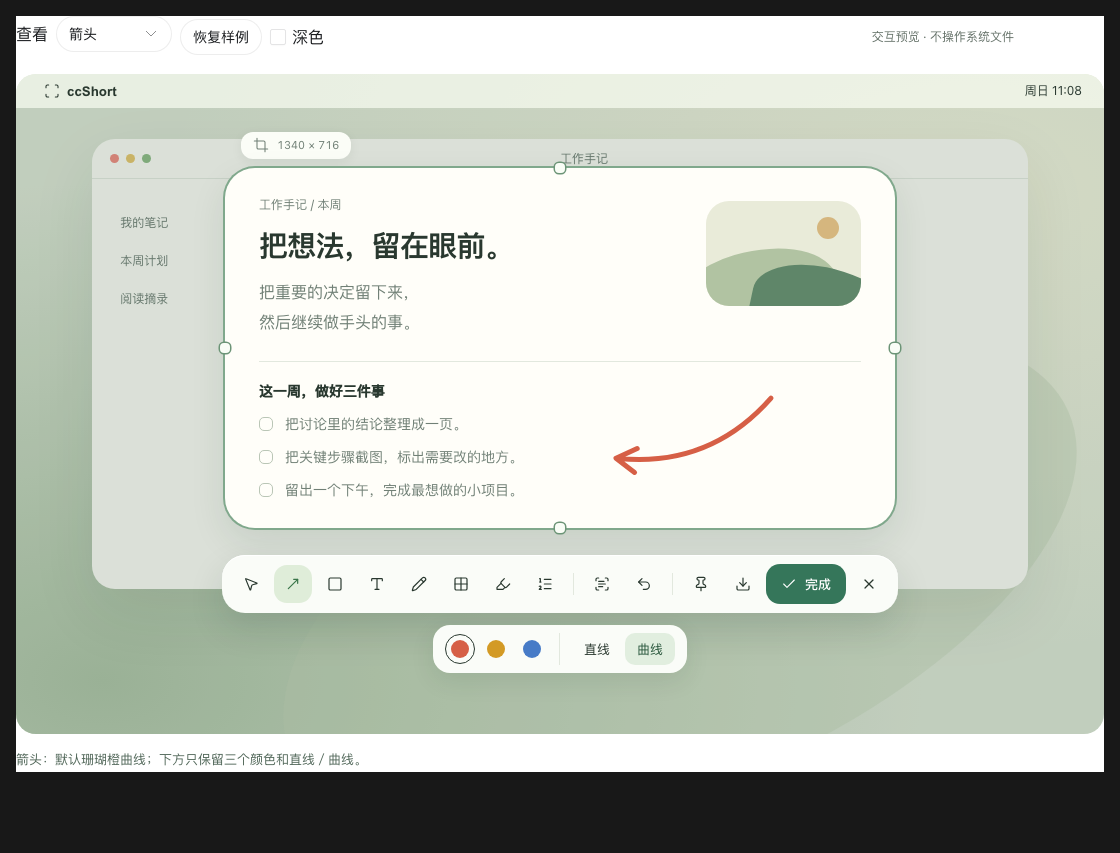
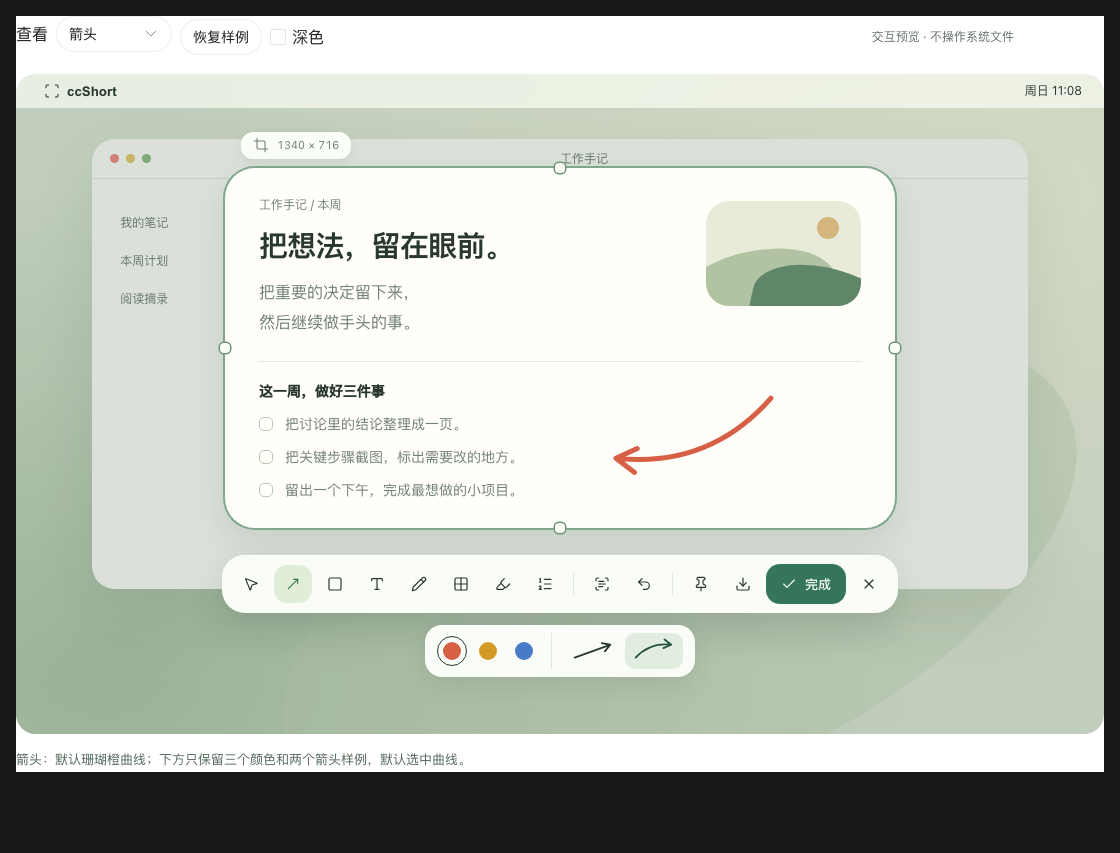
用箭头样例替代形态文字并保持曲线默认

Changed region(s): [[0.375, 0.7315, 0.625, 0.7925], [0.25, 0.8839, 0.4062, 0.9144]]

diff --git a/docs/ui-v5/ccShort-完整交互预览.html b/docs/ui-v5/ccShort-完整交互预览.html
@@ -1963,9 +1963,11 @@ html&gt;body{padding:0}&lt;/style&gt;
 #ccshort-design .color-choice span{display:block;width:18px;height:18px;border-radius:50%;background:var(--mark-color)}
 #ccshort-design .color-choice[aria-pressed=&quot;true&quot;]{border-color:var(--ink)}
 #ccshort-design .arrow-shapes{display:flex;gap:3px;border-left:1px solid var(--hair);padding-left:12px}
-#ccshort-design .arrow-shapes button{height:32px;padding:0 12px;border:0;border-radius:10px;background:transparent;color:var(--ink);font:13px -apple-system,&quot;PingFang SC&quot;,sans-serif}
+#ccshort-design .arrow-shapes button{display:grid;place-items:center;width:58px;height:36px;padding:3px 7px;border:0;border-radius:10px;background:transparent;color:var(--ink);font:13px -apple-system,&quot;PingFang SC&quot;,sans-serif}
 #ccshort-design .arrow-shapes button[aria-pressed=&quot;true&quot;]{background:light-dark(#e1eedf,#405b45);color:light-dark(#28563b,#e0eddf)}
 #ccshort-design .desktop:not([data-mode=&quot;edit&quot;]) .annotation-options{display:none}
+#ccshort-design .arrow-example{display:block;width:44px;height:28px}
+#ccshort-design .arrow-example svg{display:block;width:100%;height:100%}
 &lt;/style&gt;
 &lt;div id=&quot;ccshort-design&quot;&gt;
   &lt;div class=&quot;review-controls&quot; aria-label=&quot;设计稿状态&quot;&gt;
@@ -2016,7 +2018,7 @@ html&gt;body{padding:0}&lt;/style&gt;
         &lt;button class=&quot;color-choice&quot; data-mark-color=&quot;#D39A25&quot; style=&quot;--mark-color:#D39A25&quot; aria-label=&quot;琥珀黄&quot; data-tooltip=&quot;琥珀黄&quot; aria-pressed=&quot;false&quot;&gt;&lt;span&gt;&lt;/span&gt;&lt;/button&gt;
         &lt;button class=&quot;color-choice&quot; data-mark-color=&quot;#477BC7&quot; style=&quot;--mark-color:#477BC7&quot; aria-label=&quot;晴空蓝&quot; data-tooltip=&quot;晴空蓝&quot; aria-pressed=&quot;false&quot;&gt;&lt;span&gt;&lt;/span&gt;&lt;/button&gt;
       &lt;/div&gt;
-      &lt;div class=&quot;arrow-shapes&quot; role=&quot;group&quot; aria-label=&quot;箭头形态&quot;&gt;&lt;button data-arrow-shape=&quot;straight&quot; aria-pressed=&quot;false&quot;&gt;直线&lt;/button&gt;&lt;button data-arrow-shape=&quot;curved&quot; aria-pressed=&quot;true&quot;&gt;曲线&lt;/button&gt;&lt;/div&gt;
+      &lt;div class=&quot;arrow-shapes&quot; role=&quot;group&quot; aria-label=&quot;箭头形态&quot;&gt;&lt;button data-arrow-shape=&quot;straight&quot; aria-label=&quot;直线箭头&quot; data-tooltip=&quot;直线箭头&quot; aria-pressed=&quot;false&quot;&gt;&lt;span class=&quot;arrow-example&quot; aria-hidden=&quot;true&quot;&gt;&lt;/span&gt;&lt;/button&gt;&lt;button data-arrow-shape=&quot;curved&quot; aria-label=&quot;曲线箭头&quot; data-tooltip=&quot;曲线箭头&quot; aria-pressed=&quot;true&quot;&gt;&lt;span class=&quot;arrow-example&quot; aria-hidden=&quot;true&quot;&gt;&lt;/span&gt;&lt;/button&gt;&lt;/div&gt;
     &lt;/div&gt;
     &lt;div class=&quot;pinbar&quot; hidden&gt;&lt;button data-action=&quot;edit&quot;&gt;&lt;i data-lucide=&quot;pencil&quot; aria-hidden=&quot;true&quot;&gt;&lt;/i&gt; 编辑&lt;/button&gt;&lt;button data-action=&quot;save&quot;&gt;&lt;i data-lucide=&quot;download&quot; aria-hidden=&quot;true&quot;&gt;&lt;/i&gt; 保存&lt;/button&gt;&lt;button data-action=&quot;close&quot; aria-label=&quot;关闭钉图&quot;&gt;&lt;i data-lucide=&quot;x&quot; aria-hidden=&quot;true&quot;&gt;&lt;/i&gt;&lt;/button&gt;&lt;/div&gt;
     &lt;div class=&quot;appmenu&quot; hidden&gt;&lt;button data-capture=&quot;区域截图&quot;&gt;区域截图 &lt;span&gt;⌃⌥S&lt;/span&gt;&lt;/button&gt;&lt;button data-capture=&quot;窗口截图&quot;&gt;窗口截图&lt;/button&gt;&lt;button data-capture=&quot;当前屏幕&quot;&gt;当前屏幕&lt;/button&gt;&lt;hr&gt;&lt;button data-action=&quot;settings&quot;&gt;设置…&lt;/button&gt;&lt;hr&gt;&lt;button data-action=&quot;quit&quot;&gt;退出 ccShort&lt;/button&gt;&lt;/div&gt;
@@ -2034,7 +2036,7 @@ const ns=&#x27;http://www.w3.org/2000/svg&#x27;;
 const presets={arrow:{color:&#x27;#D65F46&#x27;,shape:&#x27;curved&#x27;},rect:{color:&#x27;#D65F46&#x27;}};
 const options=root.querySelector(&#x27;.annotation-options&#x27;);
 const names={capture:&#x27;框选&#x27;,arrow:&#x27;箭头&#x27;,rect:&#x27;画框&#x27;,label:&#x27;文字&#x27;,pen:&#x27;画笔&#x27;,mask:&#x27;遮挡&#x27;,highlight:&#x27;高亮&#x27;,number:&#x27;序号&#x27;,select:&#x27;选字&#x27;};
-const hints={capture:&#x27;框选：拖动四边的控制点调整范围。&#x27;,arrow:&#x27;箭头：默认珊瑚橙曲线；下方只保留三个颜色和直线／曲线。&#x27;,rect:&#x27;画框：默认珊瑚橙；下方可以换色，圆角和线宽保持统一。&#x27;,label:&#x27;文字：直接输入内容，回车确认；不显示字体、字号和颜色面板。&#x27;,pen:&#x27;画笔：固定绿色圆头笔，按住鼠标连续画。&#x27;,mask:&#x27;遮挡：拖出实色遮挡区域，无需选择强度。&#x27;,highlight:&#x27;高亮：拖出浅绿区域，不改变下方内容。&#x27;,number:&#x27;序号：单击放置，数字自动递增。&#x27;,select:&#x27;选字：在图中文字上拖选；右键可复制、全选，⌘C 复制后继续编辑。&#x27;};
+const hints={capture:&#x27;框选：拖动四边的控制点调整范围。&#x27;,arrow:&#x27;箭头：默认珊瑚橙曲线；下方只保留三个颜色和两个箭头样例，默认选中曲线。&#x27;,rect:&#x27;画框：默认珊瑚橙；下方可以换色，圆角和线宽保持统一。&#x27;,label:&#x27;文字：直接输入内容，回车确认；不显示字体、字号和颜色面板。&#x27;,pen:&#x27;画笔：固定绿色圆头笔，按住鼠标连续画。&#x27;,mask:&#x27;遮挡：拖出实色遮挡区域，无需选择强度。&#x27;,highlight:&#x27;高亮：拖出浅绿区域，不改变下方内容。&#x27;,number:&#x27;序号：单击放置，数字自动递增。&#x27;,select:&#x27;选字：在图中文字上拖选；右键可复制、全选，⌘C 复制后继续编辑。&#x27;};
 let tool=&#x27;capture&#x27;,marks=[],history=[],redo=[],sample=true,draft=null,drag=null,selected=&#x27;&#x27;,textPoint={x:420,y:218},timer,recording=false,lastFocus=null;
 function el(tag,attrs={}){const e=document.createElementNS(ns,tag);Object.entries(attrs).forEach(([k,v])=&gt;e.setAttribute(k,String(v)));return e;}
 function segment(m){
@@ -2111,6 +2113,12 @@ root.querySelector(&#x27;[data-copy]&#x27;).addEventListener(&#x27;click&#x27;,c
 note.addEventListener(&#x27;contextmenu&#x27;,e=&gt;{if(tool!==&#x27;select&#x27;)return;e.preventDefault();const r=stage.getBoundingClientRect();context.hidden=false;context.style.left=Math.max(8,Math.min(e.clientX-r.left,r.width-context.offsetWidth-8))+&#x27;px&#x27;;context.style.top=Math.max(8,Math.min(e.clientY-r.top,r.height-context.offsetHeight-8))+&#x27;px&#x27;;context.querySelector(&#x27;button&#x27;).focus();setHint(&#x27;右键菜单只保留复制和全选，不常驻遮挡文字。&#x27;);});
 root.addEventListener(&#x27;click&#x27;,e=&gt;{if(!context.contains(e.target))context.hidden=true;if(!appmenu.contains(e.target)&amp;&amp;!e.target.closest(&#x27;[data-appmenu]&#x27;))appmenu.hidden=true;});
 root.addEventListener(&#x27;keydown&#x27;,e=&gt;{if(recording){e.preventDefault();if(e.key===&#x27;Escape&#x27;){recording=false;root.querySelector(&#x27;[data-shortcut]&#x27;).textContent=root.dataset.shortcut||&#x27;⌃⌥S&#x27;;return;}if([&#x27;Meta&#x27;,&#x27;Control&#x27;,&#x27;Alt&#x27;,&#x27;Shift&#x27;].includes(e.key))return;if(!(e.metaKey||e.ctrlKey||e.altKey)){toast(&#x27;请组合 Command、Control 或 Option 键&#x27;);return;}root.dataset.shortcut=(e.ctrlKey?&#x27;⌃&#x27;:&#x27;&#x27;)+(e.altKey?&#x27;⌥&#x27;:&#x27;&#x27;)+(e.metaKey?&#x27;⌘&#x27;:&#x27;&#x27;)+(e.shiftKey?&#x27;⇧&#x27;:&#x27;&#x27;)+e.key.toUpperCase();root.querySelector(&#x27;[data-shortcut]&#x27;).textContent=root.dataset.shortcut;recording=false;return;}if(e.target.matches(&#x27;input,select,textarea&#x27;))return;if(e.key===&#x27;Escape&#x27;){if(!shade.hidden)closeSheet();else if(!context.hidden)context.hidden=true;else if(!appmenu.hidden)appmenu.hidden=true;else if(tool!==&#x27;capture&#x27;)choose(&#x27;capture&#x27;);else complete(true);return;}if(!shade.hidden||stage.dataset.mode===&#x27;done&#x27;)return;if((e.metaKey||e.ctrlKey)&amp;&amp;e.key.toLowerCase()===&#x27;c&#x27;){e.preventDefault();copy();}if((e.metaKey||e.ctrlKey)&amp;&amp;e.key.toLowerCase()===&#x27;a&#x27;&amp;&amp;tool===&#x27;select&#x27;){e.preventDefault();selectAll();}if((e.metaKey||e.ctrlKey)&amp;&amp;e.key.toLowerCase()===&#x27;z&#x27;){e.preventDefault();if(e.shiftKey&amp;&amp;redo.length){history.push(marks);marks=redo.pop();restoreCurrentStyle();paint();}else root.querySelector(&#x27;[data-action=&quot;undo&quot;]&#x27;).click();}if(e.key===&#x27;Enter&#x27;&amp;&amp;e.target.tagName!==&#x27;BUTTON&#x27;){e.preventDefault();complete();}});
+// 样例复用画布上的真实箭头路径，保证按钮所见与实际绘制一致。
+root.querySelectorAll(&#x27;[data-arrow-shape]&#x27;).forEach(button=&gt;{
+ const preview=el(&#x27;svg&#x27;,{viewBox:&#x27;0 0 120 60&#x27;,&#x27;aria-hidden&#x27;:&#x27;true&#x27;});
+ preview.append(el(&#x27;path&#x27;,{d:segment({a:{x:10,y:48},b:{x:107,y:13},shape:button.dataset.arrowShape}),fill:&#x27;none&#x27;,stroke:&#x27;currentColor&#x27;,&#x27;stroke-width&#x27;:5,&#x27;stroke-linecap&#x27;:&#x27;round&#x27;,&#x27;stroke-linejoin&#x27;:&#x27;round&#x27;}));
+ button.querySelector(&#x27;.arrow-example&#x27;).append(preview);
+});
 reset();
 })();
 &lt;/script&gt;

diff --git a/docs/ui-v5/交互预览.html b/docs/ui-v5/交互预览.html
@@ -118,9 +118,11 @@
 #ccshort-design .color-choice span{display:block;width:18px;height:18px;border-radius:50%;background:var(--mark-color)}
 #ccshort-design .color-choice[aria-pressed="true"]{border-color:var(--ink)}
 #ccshort-design .arrow-shapes{display:flex;gap:3px;border-left:1px solid var(--hair);padding-left:12px}
-#ccshort-design .arrow-shapes button{height:32px;padding:0 12px;border:0;border-radius:10px;background:transparent;color:var(--ink);font:13px -apple-system,"PingFang SC",sans-serif}
+#ccshort-design .arrow-shapes button{display:grid;place-items:center;width:58px;height:36px;padding:3px 7px;border:0;border-radius:10px;background:transparent;color:var(--ink);font:13px -apple-system,"PingFang SC",sans-serif}
 #ccshort-design .arrow-shapes button[aria-pressed="true"]{background:light-dark(#e1eedf,#405b45);color:light-dark(#28563b,#e0eddf)}
 #ccshort-design .desktop:not([data-mode="edit"]) .annotation-options{display:none}
+#ccshort-design .arrow-example{display:block;width:44px;height:28px}
+#ccshort-design .arrow-example svg{display:block;width:100%;height:100%}
 </style>
 <div id="ccshort-design">
   <div class="review-controls" aria-label="设计稿状态">
@@ -171,7 +173,7 @@
         <button class="color-choice" data-mark-color="#D39A25" style="--mark-color:#D39A25" aria-label="琥珀黄" data-tooltip="琥珀黄" aria-pressed="false"><span></span></button>
         <button class="color-choice" data-mark-color="#477BC7" style="--mark-color:#477BC7" aria-label="晴空蓝" data-tooltip="晴空蓝" aria-pressed="false"><span></span></button>
       </div>
-      <div class="arrow-shapes" role="group" aria-label="箭头形态"><button data-arrow-shape="straight" aria-pressed="false">直线</button><button data-arrow-shape="curved" aria-pressed="true">曲线</button></div>
+      <div class="arrow-shapes" role="group" aria-label="箭头形态"><button data-arrow-shape="straight" aria-label="直线箭头" data-tooltip="直线箭头" aria-pressed="false"><span class="arrow-example" aria-hidden="true"></span></button><button data-arrow-shape="curved" aria-label="曲线箭头" data-tooltip="曲线箭头" aria-pressed="true"><span class="arrow-example" aria-hidden="true"></span></button></div>
     </div>
     <div class="pinbar" hidden><button data-action="edit"><i data-lucide="pencil" aria-hidden="true"></i> 编辑</button><button data-action="save"><i data-lucide="download" aria-hidden="true"></i> 保存</button><button data-action="close" aria-label="关闭钉图"><i data-lucide="x" aria-hidden="true"></i></button></div>
     <div class="appmenu" hidden><button data-capture="区域截图">区域截图 <span>⌃⌥S</span></button><button data-capture="窗口截图">窗口截图</button><button data-capture="当前屏幕">当前屏幕</button><hr><button data-action="settings">设置…</button><hr><button data-action="quit">退出 ccShort</button></div>
@@ -189,7 +191,7 @@ const ns='http://www.w3.org/2000/svg';
 const presets={arrow:{color:'#D65F46',shape:'curved'},rect:{color:'#D65F46'}};
 const options=root.querySelector('.annotation-options');
 const names={capture:'框选',arrow:'箭头',rect:'画框',label:'文字',pen:'画笔',mask:'遮挡',highlight:'高亮',number:'序号',select:'选字'};
-const hints={capture:'框选：拖动四边的控制点调整范围。',arrow:'箭头：默认珊瑚橙曲线；下方只保留三个颜色和直线／曲线。',rect:'画框：默认珊瑚橙；下方可以换色，圆角和线宽保持统一。',label:'文字：直接输入内容，回车确认；不显示字体、字号和颜色面板。',pen:'画笔：固定绿色圆头笔，按住鼠标连续画。',mask:'遮挡：拖出实色遮挡区域，无需选择强度。',highlight:'高亮：拖出浅绿区域，不改变下方内容。',number:'序号：单击放置，数字自动递增。',select:'选字：在图中文字上拖选；右键可复制、全选，⌘C 复制后继续编辑。'};
+const hints={capture:'框选：拖动四边的控制点调整范围。',arrow:'箭头：默认珊瑚橙曲线；下方只保留三个颜色和两个箭头样例，默认选中曲线。',rect:'画框：默认珊瑚橙；下方可以换色，圆角和线宽保持统一。',label:'文字：直接输入内容，回车确认；不显示字体、字号和颜色面板。',pen:'画笔：固定绿色圆头笔，按住鼠标连续画。',mask:'遮挡：拖出实色遮挡区域，无需选择强度。',highlight:'高亮：拖出浅绿区域，不改变下方内容。',number:'序号：单击放置，数字自动递增。',select:'选字：在图中文字上拖选；右键可复制、全选，⌘C 复制后继续编辑。'};
 let tool='capture',marks=[],history=[],redo=[],sample=true,draft=null,drag=null,selected='',textPoint={x:420,y:218},timer,recording=false,lastFocus=null;
 function el(tag,attrs={}){const e=document.createElementNS(ns,tag);Object.entries(attrs).forEach(([k,v])=>e.setAttribute(k,String(v)));return e;}
 function segment(m){
@@ -266,6 +268,12 @@ root.querySelector('[data-copy]').addEventListener('click',copy);root.querySelec
 note.addEventListener('contextmenu',e=>{if(tool!=='select')return;e.preventDefault();const r=stage.getBoundingClientRect();context.hidden=false;context.style.left=Math.max(8,Math.min(e.clientX-r.left,r.width-context.offsetWidth-8))+'px';context.style.top=Math.max(8,Math.min(e.clientY-r.top,r.height-context.offsetHeight-8))+'px';context.querySelector('button').focus();setHint('右键菜单只保留复制和全选，不常驻遮挡文字。');});
 root.addEventListener('click',e=>{if(!context.contains(e.target))context.hidden=true;if(!appmenu.contains(e.target)&&!e.target.closest('[data-appmenu]'))appmenu.hidden=true;});
 root.addEventListener('keydown',e=>{if(recording){e.preventDefault();if(e.key==='Escape'){recording=false;root.querySelector('[data-shortcut]').textContent=root.dataset.shortcut||'⌃⌥S';return;}if(['Meta','Control','Alt','Shift'].includes(e.key))return;if(!(e.metaKey||e.ctrlKey||e.altKey)){toast('请组合 Command、Control 或 Option 键');return;}root.dataset.shortcut=(e.ctrlKey?'⌃':'')+(e.altKey?'⌥':'')+(e.metaKey?'⌘':'')+(e.shiftKey?'⇧':'')+e.key.toUpperCase();root.querySelector('[data-shortcut]').textContent=root.dataset.shortcut;recording=false;return;}if(e.target.matches('input,select,textarea'))return;if(e.key==='Escape'){if(!shade.hidden)closeSheet();else if(!context.hidden)context.hidden=true;else if(!appmenu.hidden)appmenu.hidden=true;else if(tool!=='capture')choose('capture');else complete(true);return;}if(!shade.hidden||stage.dataset.mode==='done')return;if((e.metaKey||e.ctrlKey)&&e.key.toLowerCase()==='c'){e.preventDefault();copy();}if((e.metaKey||e.ctrlKey)&&e.key.toLowerCase()==='a'&&tool==='select'){e.preventDefault();selectAll();}if((e.metaKey||e.ctrlKey)&&e.key.toLowerCase()==='z'){e.preventDefault();if(e.shiftKey&&redo.length){history.push(marks);marks=redo.pop();restoreCurrentStyle();paint();}else root.querySelector('[data-action="undo"]').click();}if(e.key==='Enter'&&e.target.tagName!=='BUTTON'){e.preventDefault();complete();}});
+// 样例复用画布上的真实箭头路径，保证按钮所见与实际绘制一致。
+root.querySelectorAll('[data-arrow-shape]').forEach(button=>{
+ const preview=el('svg',{viewBox:'0 0 120 60','aria-hidden':'true'});
+ preview.append(el('path',{d:segment({a:{x:10,y:48},b:{x:107,y:13},shape:button.dataset.arrowShape}),fill:'none',stroke:'currentColor','stroke-width':5,'stroke-linecap':'round','stroke-linejoin':'round'}));
+ button.querySelector('.arrow-example').append(preview);
+});
 reset();
 })();
 </script>

diff --git a/docs/ui-v5/README.md b/docs/ui-v5/README.md
@@ -7,7 +7,7 @@
 ## 可以查看和操作
 
 - 审稿导航“查看”：框选、箭头、画框、文字、画笔、遮挡、高亮、序号、选字与右键、钉图、保存、菜单栏、设置、完成。
-- 箭头选中后显示精简面板：珊瑚橙、琥珀黄、晴空蓝三个颜色，以及直线/曲线两种形态；默认珊瑚橙曲线。画框仅显示三个颜色。线宽、圆角等继续预设，所有箭头均为实线。
+- 箭头选中后显示精简面板：珊瑚橙、琥珀黄、晴空蓝三个颜色，以及直线/曲线两个箭头样例；默认珊瑚橙曲线。画框仅显示三个颜色。线宽、圆角等继续预设，所有箭头均为实线。
 - 颜色与形态即时更新当前样例或最近的一条同类标记，同时用于后续绘制；已画出的其它标记保留原样式。箭头与画框分别记住本次页面会话里的选择。
 - 查看各工具会载入一个默认样例；在画布中拖动可以实际绘制箭头、框、画笔、遮挡与高亮；点击放置自动序号。第一次绘制替换展示样例，后续绘制可叠加。
 - 文字在画面内直接输入，回车确认；撤销支持回退标注，快捷键也支持重做。
@@ -26,7 +26,7 @@
 
 ## 独立 HTML 交付
 
-`ccShort-完整交互预览.html` 为完整单文件页面，已内嵌图标、提示浮层依赖及许可证，无外部脚本、字体、图片依赖，可以离线打开。文件约 935 KB。使用既有片段导出并内嵌固定版本 Lucide 1.17.0、Floating UI Core 1.7.3 / DOM 1.7.4；原 MIT/ISC 授权文本保存在页面注释中。
+`ccShort-完整交互预览.html` 为完整单文件页面，已内嵌图标、提示浮层依赖及许可证，无外部脚本、字体、图片依赖，可以离线打开。文件约 937 KB。使用既有片段导出并内嵌固定版本 Lucide 1.17.0、Floating UI Core 1.7.3 / DOM 1.7.4；原 MIT/ISC 授权文本保存在页面注释中。
 
 已在浏览器关闭网络、忽略缓存重新加载后检查 21 个图标、全部工具与菜单的 16 项交互；代表画面无横向溢出。源片段保留供后续编辑。
 
@@ -37,3 +37,5 @@
 曲线使用二次贝塞尔弧，箭头尖沿终点切线，线端圆润。面板随工具出现，选字时收起，钉图/完成状态隐藏。保留固定线宽、圆角，不增加虚线、全色盘、更多箭头或字号选项。
 
 离线重载后 16 项原交互回归和 15 项新增检查通过，覆盖三色切换、直曲切换、各工具面板范围、状态收起、会话选择保留、面板完整位于画布内与实线。实际指针拖动生成曲线箭头。已查看浅色箭头/画框、深色箭头截图；未改动原生 App。
+
+箭头形态按钮已按用户要求改为实际路径样例，不显示“直线/曲线”文字；默认曲线，名称通过悬停与可访问标签提供。样例与画布复用同一绘制函数。已检查无可见文字、默认选中与两种切换。

diff --git a/docs/PRD.md b/docs/PRD.md
@@ -372,3 +372,5 @@ DeepSeek 旧模型名 `deepseek-chat` 和 `deepseek-reasoner` 已在 2026-07-24 
 用户要求箭头/画框可选择少量醒目且不刺眼的颜色；主题界面继续为绿色。箭头仅保留直线与曲线，默认曲线，不提供虚线。该决定覆盖此前对箭头/画框“固定绿色且不显示二级菜单”的安排，线宽、圆角等仍由产品预设。
 
 当前 HTML 提案采用珊瑚橙为默认，提供琥珀黄与晴空蓝两个备选；具体色值为设计提案，尚非用户最终定稿。箭头面板为三个色点加直线/曲线，画框仅三个色点。本轮仍只更新设计预览，未修改原生 App。
+
+用户进一步确认：直线/曲线切换用真实箭头样例替代按钮文字，默认选中曲线；名称仅保留在悬停提示和可访问标签中。

diff --git a/docs/决策记录.md b/docs/决策记录.md
@@ -57,3 +57,5 @@
 用户要求箭头/画框可选择少量醒目且不刺眼的颜色；主题界面继续为绿色。箭头仅保留直线与曲线，默认曲线，不提供虚线。该决定覆盖此前对箭头/画框“固定绿色且不显示二级菜单”的安排，线宽、圆角等仍由产品预设。
 
 当前 HTML 提案采用珊瑚橙为默认，提供琥珀黄与晴空蓝两个备选；具体色值为设计提案，尚非用户最终定稿。箭头面板为三个色点加直线/曲线，画框仅三个色点。本轮仍只更新设计预览，未修改原生 App。
+
+用户进一步确认：直线/曲线切换用真实箭头样例替代按钮文字，默认选中曲线；名称仅保留在悬停提示和可访问标签中。

diff --git a/归档事项/_index.md b/归档事项/_index.md
@@ -1,3 +1,3 @@
 # 完成记录
 
-- [2026-11-08 绿色圆润三状态设计稿](2026-11-08-绿色圆润三状态设计稿.md)：方向认可，完成出口与固定审美规则已确认；已补齐 ui-v5 工具与菜单交互预览，另交付离线独立 HTML；最新恢复三色与直曲箭头精简面板，未改动原生 App。
+- [2026-11-08 绿色圆润三状态设计稿](2026-11-08-绿色圆润三状态设计稿.md)：方向认可，完成出口与固定审美规则已确认；已补齐 ui-v5 工具与菜单交互预览，另交付离线独立 HTML；最新恢复三色与直曲箭头精简面板，形态改为样例按钮并默认曲线，未改动原生 App。

diff --git a/归档事项/2026-11-08-绿色圆润三状态设计稿.md b/归档事项/2026-11-08-绿色圆润三状态设计稿.md
@@ -23,3 +23,5 @@
 ## 标注颜色与直曲箭头修订
 
 按最新要求恢复箭头/画框的精简调色面板，默认珊瑚橙；箭头只保留直线/曲线并默认曲线，线宽与圆角预设。同步片段、离线 HTML、截图、PRD 与决策记录。16 项回归及 15 项新增浏览器检查通过，实际拖画生成曲线，已查看浅深代表画面；未修改原生 App。
+
+箭头形态按钮改为真实直线/曲线路径样例，默认曲线；同步片段、独立 HTML 与浅深截图，四项直接交互检查通过。未修改原生 App。
